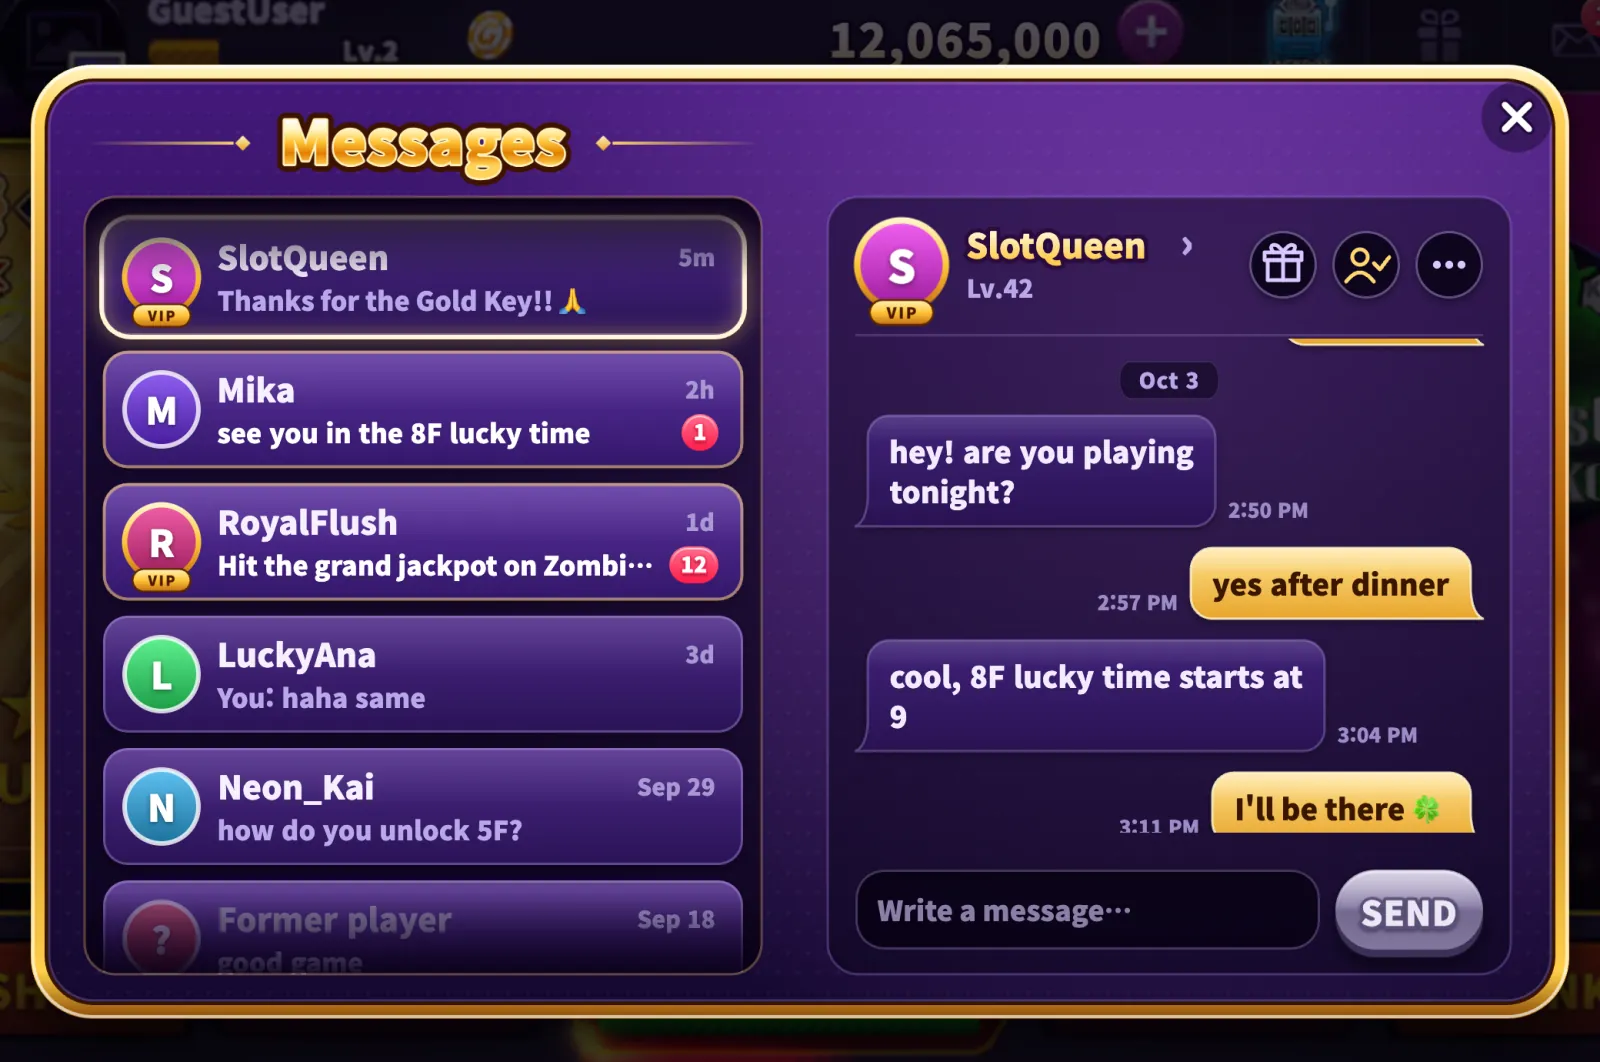
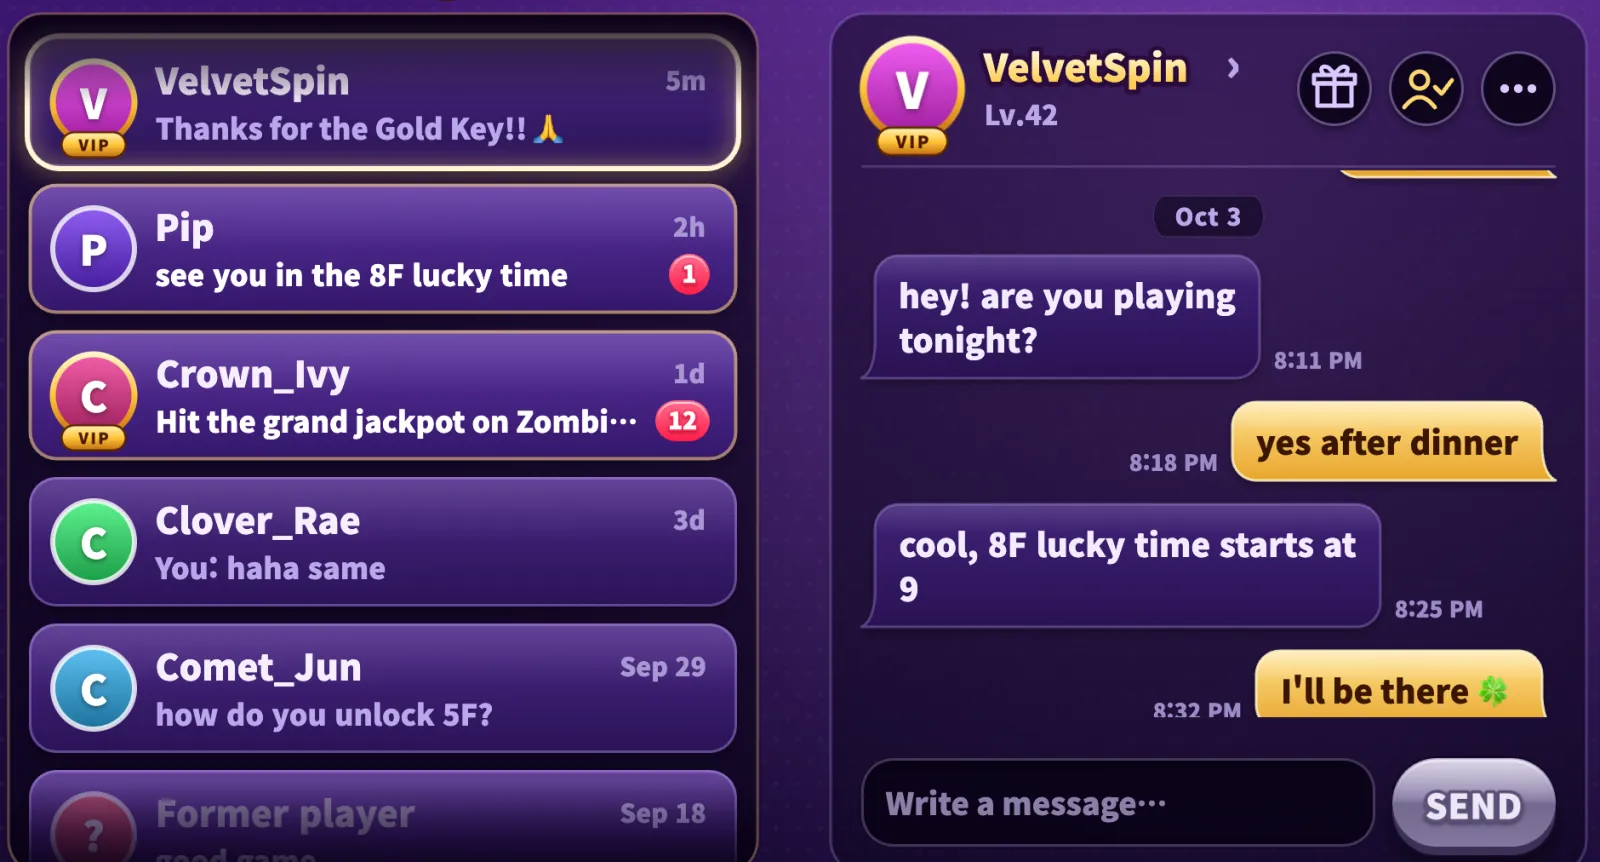
feat(site): social section as three even cards with renamed captures; site-made Peerage ladder
- Top 25, gifts and messages are re-shot from the web prototype with invented nicknames swapped in at capture
  time (the prototype files stay untouched), cropped inside the popup so no gold frame or close button shows
- The four uneven bento cells become three equal cards; following friends folds into the chat card
- Peerage drops the screenshot for six shields climbing like stairs plus the three ways to earn points

diff --git a/index.html b/index.html
@@ -452,38 +452,41 @@
           <h2 class="gold-title" id="social-title">Rankings &amp; Social Play</h2>
           <p class="section__lede" data-reveal>Compare your best wins with other players, climb the Daily Top 25, earn a Peerage title and play together with friends.</p>
         </div>
-        <div class="bento">
-          <article class="bento__cell bento__cell--rank bento__cell--shot" data-reveal>
-            <img src="assets/img/features/ranking-960.webp" srcset="assets/img/features/ranking-960.webp 960w, assets/img/features/ranking-1600.webp 1600w" sizes="(min-width: 900px) 600px, 92vw" alt="The Daily Top 25 ranking with your rank and today's prizes" width="2080" height="1380" loading="lazy" decoding="async">
-            <div class="bento__text"><h3>Daily Top 25</h3><p>Climb the rankings and beat your own records.</p></div>
+        <div class="social-cards">
+          <article class="social-card" data-reveal>
+            <figure class="social-card__shot"><img src="assets/img/features/ranking-960.webp" srcset="assets/img/features/ranking-960.webp 960w, assets/img/features/ranking-1600.webp 1600w" sizes="(min-width: 900px) 380px, 92vw" alt="The Daily Top 25 ranking with your rank, the time left and today's prizes" width="1880" height="1012" loading="lazy" decoding="async"></figure>
+            <h3>Daily Top 25</h3>
+            <p>Climb today's room ranking and win chip prizes for the top spots.</p>
           </article>
-          <article class="bento__cell bento__cell--friends" data-reveal>
-            <img class="bento__icon" src="assets/img/icons/crown-chip.webp" alt="" width="256" height="256" loading="lazy">
-            <h3>Add &amp; follow friends</h3><p>Follow the players you meet at the machines.</p>
+          <article class="social-card" data-reveal>
+            <figure class="social-card__shot"><img src="assets/img/features/gifts-960.webp" srcset="assets/img/features/gifts-960.webp 960w, assets/img/features/gifts-1600.webp 1600w" sizes="(min-width: 900px) 380px, 92vw" alt="The gift box with gifts from friends and the Golden Hour team" width="1880" height="1012" loading="lazy" decoding="async"></figure>
+            <h3>Send gifts</h3>
+            <p>Share virtual chip gifts and keys with friends, and send one back.</p>
           </article>
-          <article class="bento__cell bento__cell--gifts bento__cell--shot" data-reveal>
-            <img src="assets/img/features/gifts-960.webp" srcset="assets/img/features/gifts-960.webp 960w, assets/img/features/gifts-1600.webp 1600w" sizes="(min-width: 900px) 300px, 92vw" alt="The gift box with gifts from friends and the Golden Hour team" width="2080" height="1380" loading="lazy" decoding="async">
-            <div class="bento__text"><h3>Send gifts</h3><p>Share virtual chip gifts with your friends.</p></div>
-          </article>
-          <article class="bento__cell bento__cell--messages bento__cell--shot" data-reveal>
-            <img src="assets/img/features/messages-960.webp" srcset="assets/img/features/messages-960.webp 960w, assets/img/features/messages-1600.webp 1600w" sizes="(min-width: 900px) 600px, 92vw" alt="Messages between players in Golden Hour" width="2080" height="1380" loading="lazy" decoding="async">
-            <div class="bento__text"><h3>Message players</h3><p>Chat with the people you play with, right inside the game.</p></div>
+          <article class="social-card" data-reveal>
+            <figure class="social-card__shot"><img src="assets/img/features/messages-960.webp" srcset="assets/img/features/messages-960.webp 960w, assets/img/features/messages-1600.webp 1600w" sizes="(min-width: 900px) 380px, 92vw" alt="Messages between players in Golden Hour" width="1880" height="1012" loading="lazy" decoding="async"></figure>
+            <h3>Follow &amp; chat</h3>
+            <p>Follow the players you meet at the machines and message them right inside the game.</p>
           </article>
         </div>
         <div class="peerage" data-reveal>
-          <figure class="shot peerage__shot"><img src="assets/img/features/peerage-960.webp" srcset="assets/img/features/peerage-960.webp 960w, assets/img/features/peerage-1600.webp 1600w" sizes="(min-width: 900px) 560px, 92vw" alt="The Peerage screen with a player's current title, the points to the next one and the six tiers from Bronze to Diamond" width="1888" height="1208" loading="lazy" decoding="async"></figure>
           <div class="peerage__copy">
             <h3>Win 1st place. Earn a title.</h3>
-            <p>Finish 1st in a weekly ranking, a tournament or a Daily Top 25 room to earn Peerage points. Climb from Bronze to Diamond, and every step adds to your Daily Jackpot prize, up to +500%.</p>
-            <ul class="peerage__tiers" aria-label="Peerage tiers">
-              <li><img src="assets/img/peerage/bronze.webp" alt="" width="160" height="160" loading="lazy">Bronze</li>
-              <li><img src="assets/img/peerage/silver.webp" alt="" width="160" height="160" loading="lazy">Silver</li>
-              <li><img src="assets/img/peerage/sapphire.webp" alt="" width="160" height="160" loading="lazy">Sapphire</li>
-              <li><img src="assets/img/peerage/ruby.webp" alt="" width="160" height="160" loading="lazy">Ruby</li>
-              <li><img src="assets/img/peerage/royalgold.webp" alt="" width="160" height="160" loading="lazy">Royal Gold</li>
-              <li><img src="assets/img/peerage/diamond.webp" alt="" width="160" height="160" loading="lazy">Diamond</li>
+            <p>Finish 1st and earn Peerage points. Climb from Bronze to Diamond, and every step adds to your Daily Jackpot prize, up to +500%.</p>
+            <ul class="peerage__ways" aria-label="Ways to earn Peerage points">
+              <li>1st in a weekly ranking</li>
+              <li>1st in a tournament</li>
+              <li>1st in a Daily Top 25 room</li>
             </ul>
           </div>
+          <ol class="peerage__ladder" aria-label="Peerage tiers, lowest to highest">
+            <li style="--step:0"><img src="assets/img/peerage/bronze.webp" alt="" width="160" height="160" loading="lazy">Bronze</li>
+            <li style="--step:1"><img src="assets/img/peerage/silver.webp" alt="" width="160" height="160" loading="lazy">Silver</li>
+            <li style="--step:2"><img src="assets/img/peerage/sapphire.webp" alt="" width="160" height="160" loading="lazy">Sapphire</li>
+            <li style="--step:3"><img src="assets/img/peerage/ruby.webp" alt="" width="160" height="160" loading="lazy">Ruby</li>
+            <li style="--step:4"><img src="assets/img/peerage/royalgold.webp" alt="" width="160" height="160" loading="lazy">Royal Gold</li>
+            <li style="--step:5"><img src="assets/img/peerage/diamond.webp" alt="" width="160" height="160" loading="lazy">Diamond</li>
+          </ol>
         </div>
       </div>
     </section>

diff --git a/assets/css/sections.css b/assets/css/sections.css
@@ -373,53 +373,33 @@
   .meter__neon { opacity: .8; }
 }
 
-/* ── 랭킹 & 소셜(크기가 다른 4칸) ─────────────────────────────────────── */
-.bento {
+/* ── 랭킹 & 소셜: 같은 크기 카드 세 장(새 UI 팝업 안쪽 화면 + 글), 그 아래 peerage ─────────── */
+.social-cards { display: grid; grid-template-columns: repeat(3, minmax(0, 1fr)); gap: 18px; }
+.social-card {
   display: grid;
-  grid-template-columns: minmax(0, 2fr) minmax(0, 1fr) minmax(0, 1fr);
-  grid-template-rows: auto auto;
-  gap: 16px;
-}
-.bento__cell {
-  position: relative;
-  isolation: isolate;
-  overflow: hidden;
-  display: grid;
-  align-content: end;
+  grid-template-rows: auto auto 1fr;
   gap: 8px;
-  min-height: 220px;
-  padding: 24px;
+  padding: 12px 12px 20px;
   border-radius: var(--r-panel);
+  background: linear-gradient(180deg, rgba(75, 39, 135, .55), rgba(30, 12, 64, .7));
   box-shadow: inset 0 0 0 1.5px rgba(190, 150, 255, .22), 0 12px 28px rgba(0, 0, 0, .4);
 }
-.bento__cell h3 { font-family: var(--font-display); font-size: 1.375rem; }
-.bento__cell--rank { grid-row: 1 / 3; }
-/* 스크린샷 칸: 그림을 칸 가득 깔고 아래에 글을 겹친다 */
-.bento__cell--shot { padding: 0; background: var(--c-bg-2); }
-.bento__cell--shot > img { position: absolute; inset: 0; width: 100%; height: 100%; object-fit: cover; object-position: center top; z-index: -1; }
-.bento__text { padding: 64px 24px 24px; background: linear-gradient(180deg, transparent, rgba(10, 3, 26, .92) 45%); }
-.bento__text p { margin-top: 6px; }
-.bento__cell--friends { background: radial-gradient(90% 80% at 80% 10%, rgba(255, 95, 210, .35), transparent 60%), var(--g-row-vip); }
-.bento__cell--messages { grid-column: 2 / 4; }
-.bento__icon { position: absolute; top: 16px; right: 16px; z-index: -1; width: 104px; height: auto; filter: drop-shadow(0 10px 16px rgba(0, 0, 0, .45)); }
+.social-card__shot { margin: 0 0 6px; overflow: hidden; border-radius: calc(var(--r-panel) - 10px); box-shadow: 0 0 0 1px rgba(255, 210, 87, .35); }
+.social-card__shot img { width: 100%; }
+.social-card h3, .social-card p { padding-inline: 8px; }
+.social-card h3 { font-family: var(--font-display); font-size: 1.375rem; }
+.social-card p { color: var(--c-text-dim); }
 @media (max-width: 899px) {
-  .bento { grid-template-columns: 1fr 1fr; }
-  .bento__cell--rank { grid-column: 1 / 3; grid-row: auto; aspect-ratio: 16 / 10; }
-  .bento__cell--messages { grid-column: 1 / 3; }
+  .social-cards { grid-template-columns: 1fr; max-width: 560px; margin-inline: auto; }
 }
-@media (max-width: 559px) {
-  .bento { grid-template-columns: 1fr; }
-  .bento__cell--rank, .bento__cell--messages { grid-column: auto; }
-}
-
-/* peerage(1등 칭호): 화면 | 글·방패 6등급 */
+/* peerage(1등 칭호): 글·얻는 방법 | 방패 6등급이 계단처럼 올라간다(사이트 전용 그림) */
 .peerage {
   display: grid;
-  grid-template-columns: minmax(0, 7fr) minmax(0, 6fr);
+  grid-template-columns: minmax(0, 5fr) minmax(0, 7fr);
   gap: clamp(20px, 3vw, 40px);
   align-items: center;
-  margin-top: 16px;
-  padding: clamp(16px, 2.4vw, 28px);
+  margin-top: 18px;
+  padding: clamp(20px, 3vw, 36px);
   border-radius: var(--r-panel);
   background: radial-gradient(90% 90% at 85% 15%, rgba(255, 196, 80, .16), transparent 60%), var(--g-row-vip);
   box-shadow: inset 0 0 0 1.5px rgba(255, 210, 87, .35), 0 12px 28px rgba(0, 0, 0, .4);
@@ -427,14 +407,39 @@
 .peerage__copy { display: grid; gap: 12px; }
 .peerage__copy h3 { font-family: var(--font-display); font-size: 1.5rem; }
 .peerage__copy p { color: var(--c-text-dim); }
-.peerage__tiers { display: grid; grid-template-columns: repeat(6, minmax(0, 1fr)); gap: 6px; margin: 6px 0 0; padding: 0; list-style: none; }
-.peerage__tiers li { display: grid; justify-items: center; gap: 4px; color: var(--c-text); font-size: .75rem; font-weight: 600; text-align: center; line-height: 1.2; }
-.peerage__tiers img { width: min(56px, 100%); filter: drop-shadow(0 6px 10px rgba(0, 0, 0, .5)); }
+.peerage__ways { display: flex; flex-wrap: wrap; gap: 8px; margin: 4px 0 0; padding: 0; list-style: none; }
+.peerage__ways li { padding: .3em .85em; border-radius: var(--r-pill); background: var(--c-inset); box-shadow: inset 0 0 0 1.5px rgba(255, 210, 87, .45); color: #fff4c9; font-size: .875rem; font-weight: 600; }
+.peerage__ladder {
+  position: relative;
+  display: grid;
+  grid-template-columns: repeat(6, minmax(0, 1fr));
+  align-items: end;
+  gap: 4px;
+  min-height: 230px;
+  margin: 0;
+  padding: 0;
+  list-style: none;
+}
+.peerage__ladder li {
+  position: relative;
+  display: grid;
+  justify-items: center;
+  gap: 4px;
+  translate: 0 calc(var(--step) * -18px);
+  color: var(--c-text);
+  font-size: .8125rem;
+  font-weight: 700;
+  text-align: center;
+  line-height: 1.2;
+}
+.peerage__ladder img { width: calc(58% + var(--step) * 6%); max-width: 104px; filter: drop-shadow(0 8px 12px rgba(0, 0, 0, .55)); }
+.peerage__ladder li:last-child img { filter: drop-shadow(0 8px 12px rgba(0, 0, 0, .55)) drop-shadow(0 0 16px rgba(190, 220, 255, .55)); }
 @media (max-width: 899px) {
   .peerage { grid-template-columns: 1fr; }
 }
-@media (max-width: 420px) {
-  .peerage__tiers { grid-template-columns: repeat(3, minmax(0, 1fr)); row-gap: 12px; }
+@media (max-width: 480px) {
+  .peerage__ladder { min-height: 190px; }
+  .peerage__ladder li { translate: 0 calc(var(--step) * -12px); font-size: .6875rem; }
 }
 
 /* ── 콜렉트 보너스(2시간마다, 룰렛 없이 바로 지급): 받기 전 ↔ 받은 순간 화면이 번갈아 나온다 ──────── */
